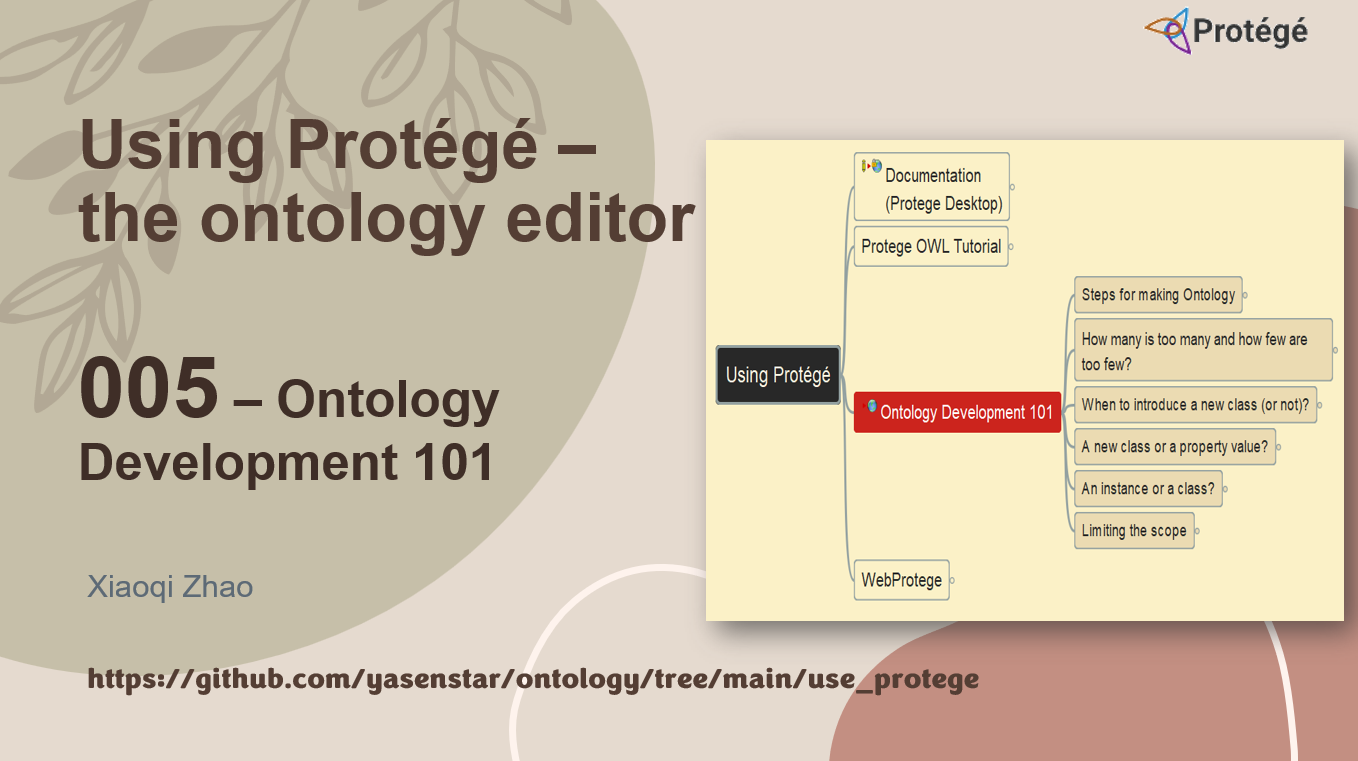
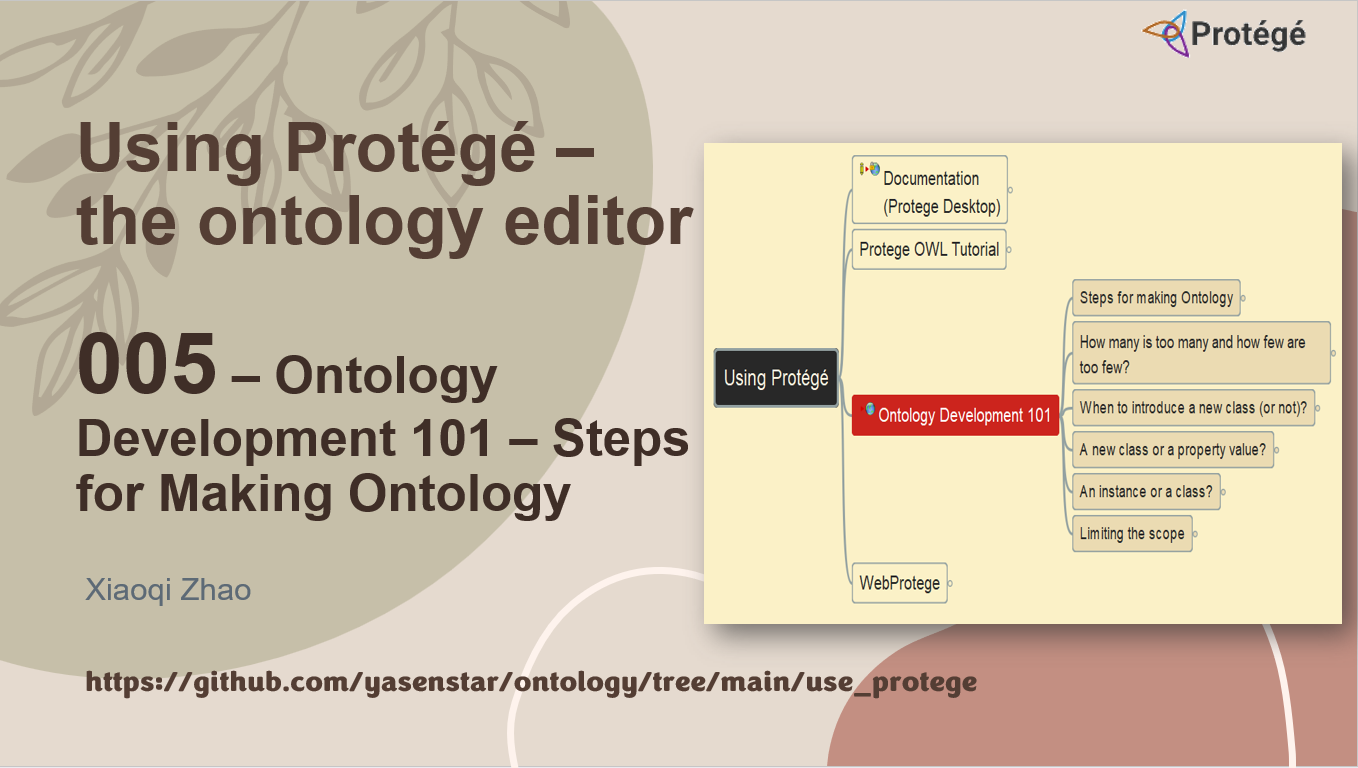
add video 005 and 006

diff --git a/use_protege/Using_Protégé.mm b/use_protege/Using_Protégé.mm
@@ -2,7 +2,7 @@
 <!--To view this file, download free mind mapping software Freeplane from https://www.freeplane.org -->
 <node TEXT="Using Protégé" FOLDED="false" ID="ID_1090958577" CREATED="1606664858024" MODIFIED="1706466927410" VGAP_QUANTITY="3 pt">
 <hook NAME="accessories/plugins/AutomaticLayout.properties" VALUE="ALL"/>
-<hook NAME="MapStyle" background="#fbf1c7">
+<hook NAME="MapStyle" background="#fbf1c7" zoom="1.3">
     <properties show_icon_for_attributes="true" edgeColorConfiguration="#808080ff,#ff0000ff,#0000ffff,#00ff00ff,#ff00ffff,#00ffffff,#7c0000ff,#00007cff,#007c00ff,#7c007cff,#007c7cff,#7c7c00ff" show_note_icons="true" fit_to_viewport="false" associatedTemplateLocation="template:/light_gruvbox_template.mm"/>
 
 <map_styles>
@@ -76,7 +76,7 @@
 </stylenode>
 </map_styles>
 </hook>
-<node TEXT="Documentation&#xa;(Protege Desktop)" POSITION="bottom_or_right" ID="ID_1824909855" CREATED="1706466954748" MODIFIED="1706538942463" LINK="https://protegeproject.github.io/protege/"><richcontent TYPE="NOTE">
+<node TEXT="Documentation&#xa;(Protege Desktop)" FOLDED="true" POSITION="bottom_or_right" ID="ID_1824909855" CREATED="1706466954748" MODIFIED="1706538942463" LINK="https://protegeproject.github.io/protege/"><richcontent TYPE="NOTE">
 <html>
   <head>
     
@@ -260,7 +260,7 @@
 </node>
 <node TEXT="Working with firewalls and proxies" ID="ID_473893949" CREATED="1706476771261" MODIFIED="1706489281455" LINK="https://protegewiki.stanford.edu/wiki/Working_with_firewalls_and_proxies"/>
 </node>
-<node TEXT="6. Protege plugins" ID="ID_130262879" CREATED="1706476779906" MODIFIED="1706476813205">
+<node TEXT="6. Protege plugins" FOLDED="true" ID="ID_130262879" CREATED="1706476779906" MODIFIED="1706476813205">
 <node TEXT="Auto Update plugins" ID="ID_667416116" CREATED="1706476813872" MODIFIED="1706476845979" LINK="https://protegewiki.stanford.edu/wiki/EnablePluginAutoUpdate"/>
 <node TEXT="List of Protege Plugins" ID="ID_1986064854" CREATED="1706476847429" MODIFIED="1706476862161" LINK="https://protegewiki.stanford.edu/wiki/Protege-OWL_4.0"/>
 <node TEXT="CO-ODE Protege Plugins" ID="ID_701901086" CREATED="1706476879626" MODIFIED="1706476890399" LINK="https://github.com/co-ode-owl-plugins">
@@ -272,10 +272,6 @@
 </node>
 </node>
 </node>
-</node>
-<node TEXT="WebProtege" FOLDED="true" POSITION="bottom_or_right" ID="ID_570018266" CREATED="1706539639292" MODIFIED="1706539646456">
-<node TEXT="WebProtege Overview" ID="ID_1760700010" CREATED="1706539647753" MODIFIED="1706539661903" LINK="http://protegewiki.stanford.edu/wiki/WebProtege"/>
-<node TEXT="WebProtege User Guide" ID="ID_82492711" CREATED="1706539652326" MODIFIED="1706539667259" LINK="http://protegewiki.stanford.edu/wiki/WebProtegeUsersGuide"/>
 </node>
 <node TEXT="Protege OWL Tutorial" FOLDED="true" POSITION="bottom_or_right" ID="ID_1765893058" CREATED="1706478832181" MODIFIED="1706556374728">
 <node TEXT="Tutorial in Protege Website" ID="ID_1648662599" CREATED="1706538950960" MODIFIED="1706538986572" LINK="http://owl.cs.manchester.ac.uk/publications/talks-and-tutorials/protg-owl-tutorial/"><richcontent TYPE="NOTE">
@@ -298,7 +294,7 @@
 <node TEXT="Ontology Development 101" POSITION="bottom_or_right" ID="ID_744791886" CREATED="1706539622153" MODIFIED="1706539633964" LINK="http://protegewiki.stanford.edu/wiki/Ontology101">
 <node TEXT="Steps for making Ontology" ID="ID_369339681" CREATED="1706570180062" MODIFIED="1706570188053">
 <node TEXT="Step 1. Determine the domain and scope of the ontology" POSITION="bottom_or_right" ID="ID_262127842" CREATED="1706570188055" MODIFIED="1706570225921"/>
-<node TEXT="Step 2. Consider reusing existing ontologies" POSITION="bottom_or_right" ID="ID_334859526" CREATED="1706570200028" MODIFIED="1706570228156">
+<node TEXT="Step 2. Consider reusing existing ontologies" FOLDED="true" POSITION="bottom_or_right" ID="ID_334859526" CREATED="1706570200028" MODIFIED="1706570228156">
 <node TEXT="List of Ontologies by W3C" POSITION="bottom_or_right" ID="ID_112649259" CREATED="1706574691558" MODIFIED="1706574699558" LINK="https://www.w3.org/wiki/Lists_of_ontologies">
 <node TEXT="The Dublin Core (DC) ontology" ID="ID_935026640" CREATED="1706574717345" MODIFIED="1706574737181" LINK="http://dublincore.org/"/>
 <node TEXT="The Friend Of A Friend (FOAF() ontology" ID="ID_966651107" CREATED="1706574740130" MODIFIED="1706574756795" LINK="http://www.foaf-project.org/"/>
@@ -316,7 +312,7 @@
 <node TEXT="Step 3. Enumerate important terms in the ontology" POSITION="bottom_or_right" ID="ID_380225857" CREATED="1706577205058" MODIFIED="1706577217341"/>
 <node TEXT="Step 4. Define the classes and the class hierarchy" POSITION="bottom_or_right" ID="ID_811672771" CREATED="1706577863282" MODIFIED="1706577874420"/>
 <node TEXT="Step 5. Define the properties of classes-slots" POSITION="bottom_or_right" ID="ID_357038191" CREATED="1706577887746" MODIFIED="1706577906045"/>
-<node TEXT="Step 6. Define the facets of the slots" POSITION="bottom_or_right" ID="ID_615593316" CREATED="1706577949258" MODIFIED="1706577961623">
+<node TEXT="Step 6. Define the facets of the slots" FOLDED="true" POSITION="bottom_or_right" ID="ID_615593316" CREATED="1706577949258" MODIFIED="1706577961623">
 <node TEXT="Slot cardinality" ID="ID_337247639" CREATED="1706578012750" MODIFIED="1706578019605"/>
 <node TEXT="Slot-value type" ID="ID_72682727" CREATED="1706578020085" MODIFIED="1706578034739"/>
 <node TEXT="Domain and range of a slot" ID="ID_411699073" CREATED="1706578044834" MODIFIED="1706578304766"><richcontent TYPE="NOTE">
@@ -348,19 +344,33 @@
 </node>
 <node TEXT="Step 7. Create instances" POSITION="bottom_or_right" ID="ID_385988242" CREATED="1706578355864" MODIFIED="1706578363516"/>
 </node>
-<node TEXT="A new class or a property value?" ID="ID_1129139852" CREATED="1706580562080" MODIFIED="1706580569239">
-<node TEXT="" ID="ID_1373491423" CREATED="1706580569241" MODIFIED="1706580569241"/>
+<node TEXT="How many is too many and how few are too few?" FOLDED="true" ID="ID_1462790686" CREATED="1706581814340" MODIFIED="1706581831166">
+<node TEXT="If a class has only one direct subclass there may be a modeling problem or the ontology is not complete." ID="ID_343957563" CREATED="1706581831167" MODIFIED="1706581855165"/>
+<node TEXT="If there are more than a dozen subclasses for a given class then additional intermediate categories may be necessary" ID="ID_202207042" CREATED="1706581855660" MODIFIED="1706581877836"/>
 </node>
-<node TEXT="An instance or a class?" ID="ID_1782885992" CREATED="1706579467309" MODIFIED="1706579476310">
+<node TEXT="When to introduce a new class (or not)?" FOLDED="true" ID="ID_1361439930" CREATED="1706581671388" MODIFIED="1706581681651">
+<node TEXT="Subclasses of a class usually (1) have additional properties that the superclass does not have, or (2) restrictions different from those of the superclass, or (3) participate in different relationships than the superclasses" ID="ID_1780871403" CREATED="1706581681655" MODIFIED="1706581741238"/>
+<node TEXT="Classes in terminological hierarchies do not have to introduce new properties" ID="ID_1203342288" CREATED="1706581744091" MODIFIED="1706581759389"/>
+</node>
+<node TEXT="A new class or a property value?" FOLDED="true" ID="ID_1129139852" CREATED="1706580562080" MODIFIED="1706580569239">
+<node TEXT="If the concepts with different slot values become restrictions for different slots in other classes, then we should create a new class for the distinction. Otherwise, we represent the distinction in a slot value." ID="ID_1373491423" CREATED="1706580569241" MODIFIED="1706581325183"/>
+<node TEXT="if a distinction is important in the domain and we think of the objects with different values for the distinction as different kinds of objects, then we should create a new class for the distinction." ID="ID_1843039370" CREATED="1706581518643" MODIFIED="1706581596292"/>
+<node TEXT="A class to which an individual instance belongs should not change often." ID="ID_1825406004" CREATED="1706581617013" MODIFIED="1706581637093"/>
+</node>
+<node TEXT="An instance or a class?" FOLDED="true" ID="ID_1782885992" CREATED="1706579467309" MODIFIED="1706579476310">
 <node TEXT="Individual instances are the most specific concepts represented in a knowledge base." ID="ID_1731193166" CREATED="1706579476318" MODIFIED="1706579498267"/>
 <node TEXT="If concepts form a natural hierarchy, then we should represent them as classes" ID="ID_1219927243" CREATED="1706579498461" MODIFIED="1706579518593">
 <node TEXT="Only classes can be arranged in a hierarchy -- knowledge-representation systems do not have a notion of sub-instance." ID="ID_1343339947" CREATED="1706579523601" MODIFIED="1706579553111"/>
 </node>
 </node>
-<node TEXT="Limiting the scope" ID="ID_888781512" CREATED="1706579576290" MODIFIED="1706579580470">
+<node TEXT="Limiting the scope" FOLDED="true" ID="ID_888781512" CREATED="1706579576290" MODIFIED="1706579580470">
 <node TEXT="The ontology should now contain all the possible information about the domain: you do not need to specialize (or generalize) more than you need for your application (at most one extra level each way)" ID="ID_587768911" CREATED="1706579580472" MODIFIED="1706579616672"/>
 <node TEXT="The ontology should not contain all the possible properties of and distinctions among classes in the hierarchy." ID="ID_1469687352" CREATED="1706579627781" MODIFIED="1706579657939"/>
 </node>
+</node>
+<node TEXT="WebProtege" FOLDED="true" POSITION="bottom_or_right" ID="ID_570018266" CREATED="1706539639292" MODIFIED="1706539646456">
+<node TEXT="WebProtege Overview" ID="ID_1760700010" CREATED="1706539647753" MODIFIED="1706539661903" LINK="http://protegewiki.stanford.edu/wiki/WebProtege"/>
+<node TEXT="WebProtege User Guide" ID="ID_82492711" CREATED="1706539652326" MODIFIED="1706539667259" LINK="http://protegewiki.stanford.edu/wiki/WebProtegeUsersGuide"/>
 </node>
 </node>
 </map>
